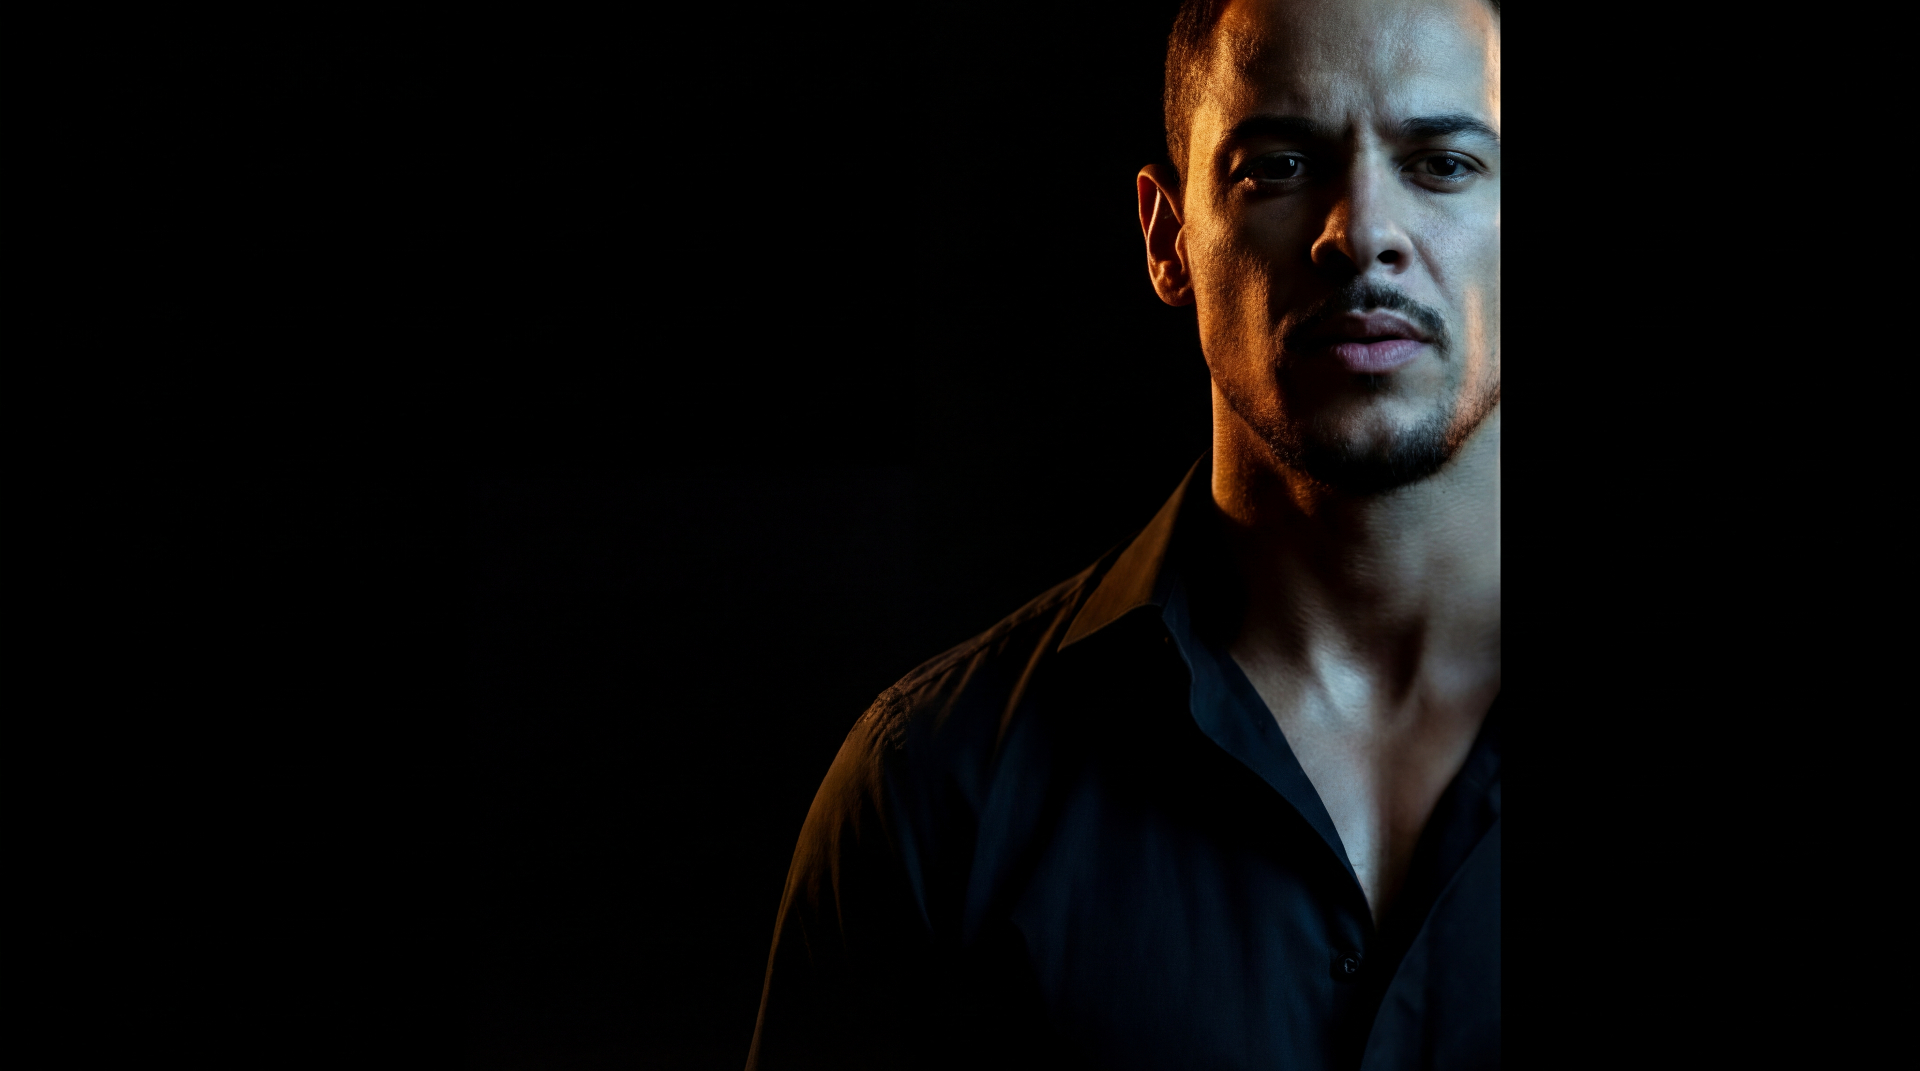
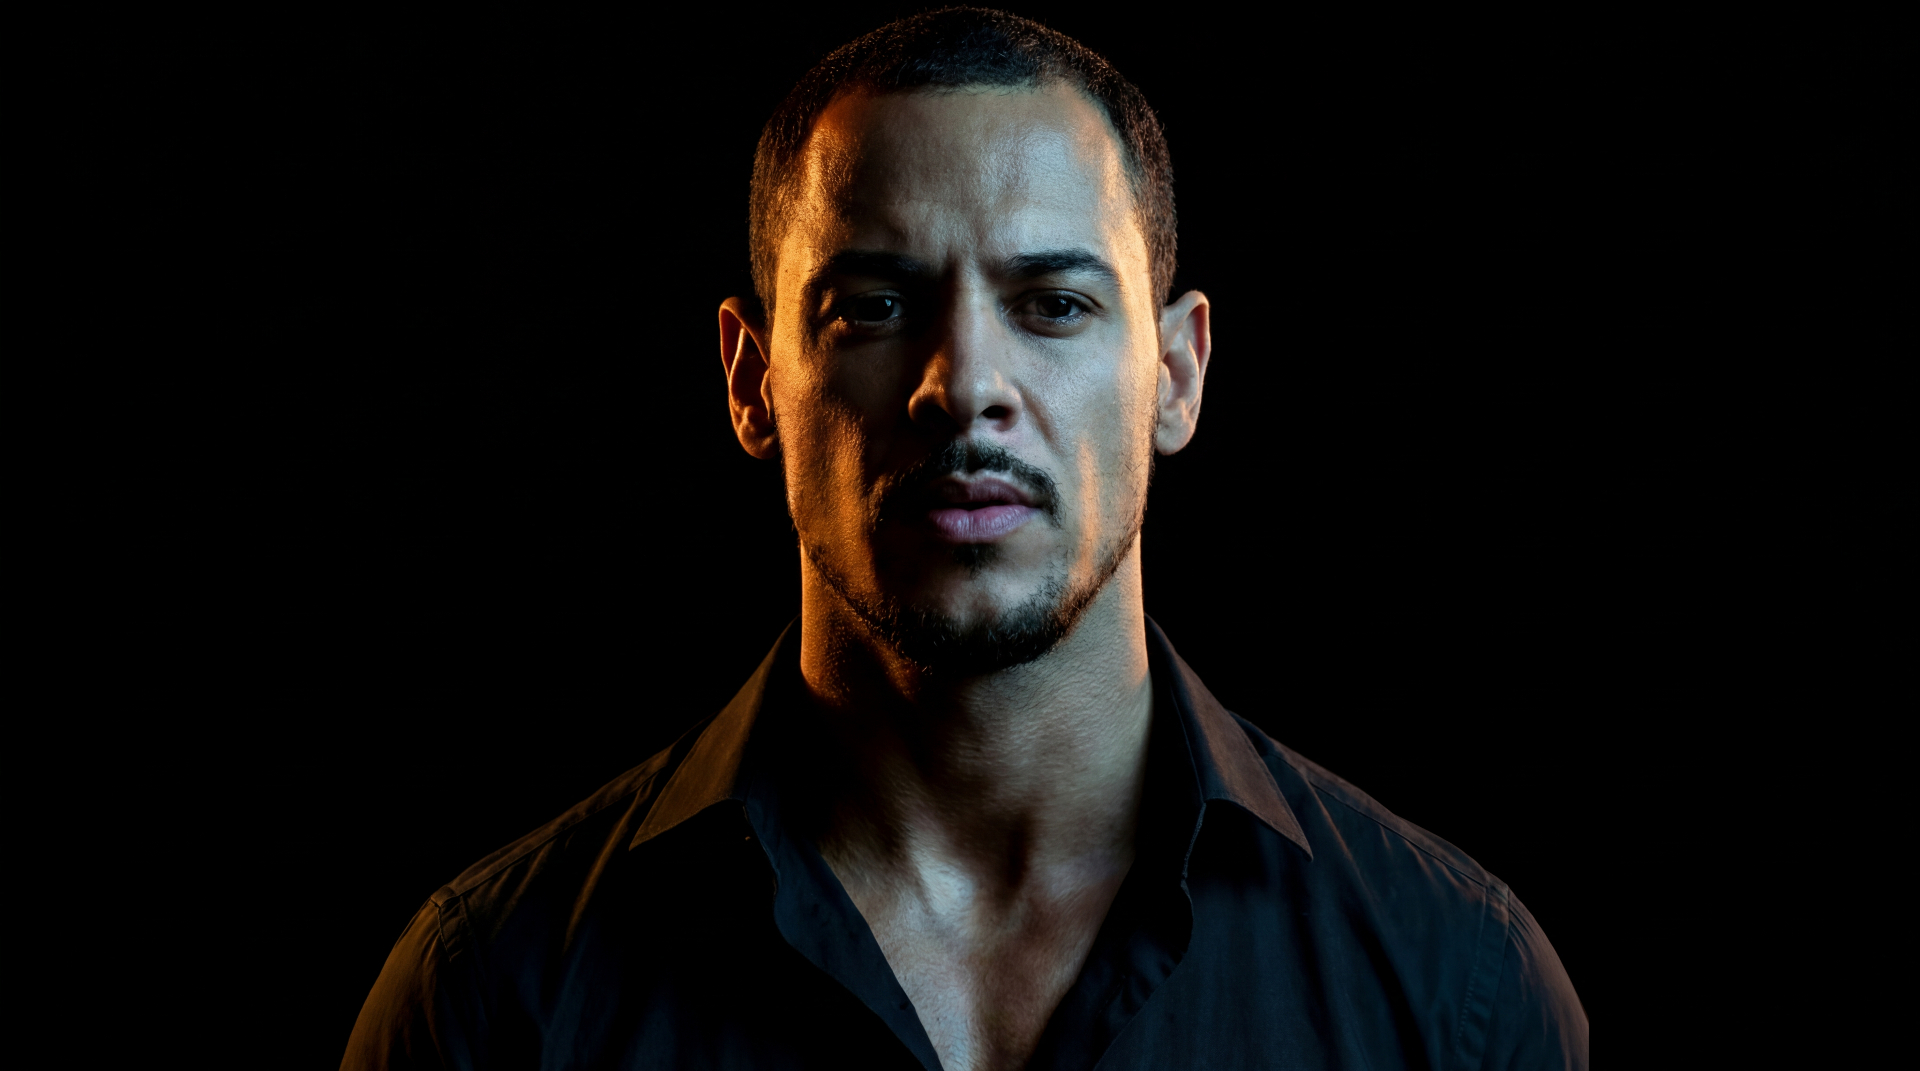
Changes

Changed region(s): [[0.1562, 0.0, 0.8438, 1.0], [0.5625, 0.9552, 0.625, 1.0], [0.375, 0.986, 0.4062, 1.0]]

diff --git a/src/components/HeroSection.tsx b/src/components/HeroSection.tsx
@@ -17,7 +17,7 @@ const HeroSection = () => {
         <img
           src={heroImage}
           alt="Team KelFit"
-          className="w-full h-full object-cover object-top"
+          className="w-full h-full object-cover object-center"
         />
         {/* Dark overlay for text readability */}
         <div className="absolute inset-0 bg-gradient-to-b from-background/70 via-background/50 to-background" />
